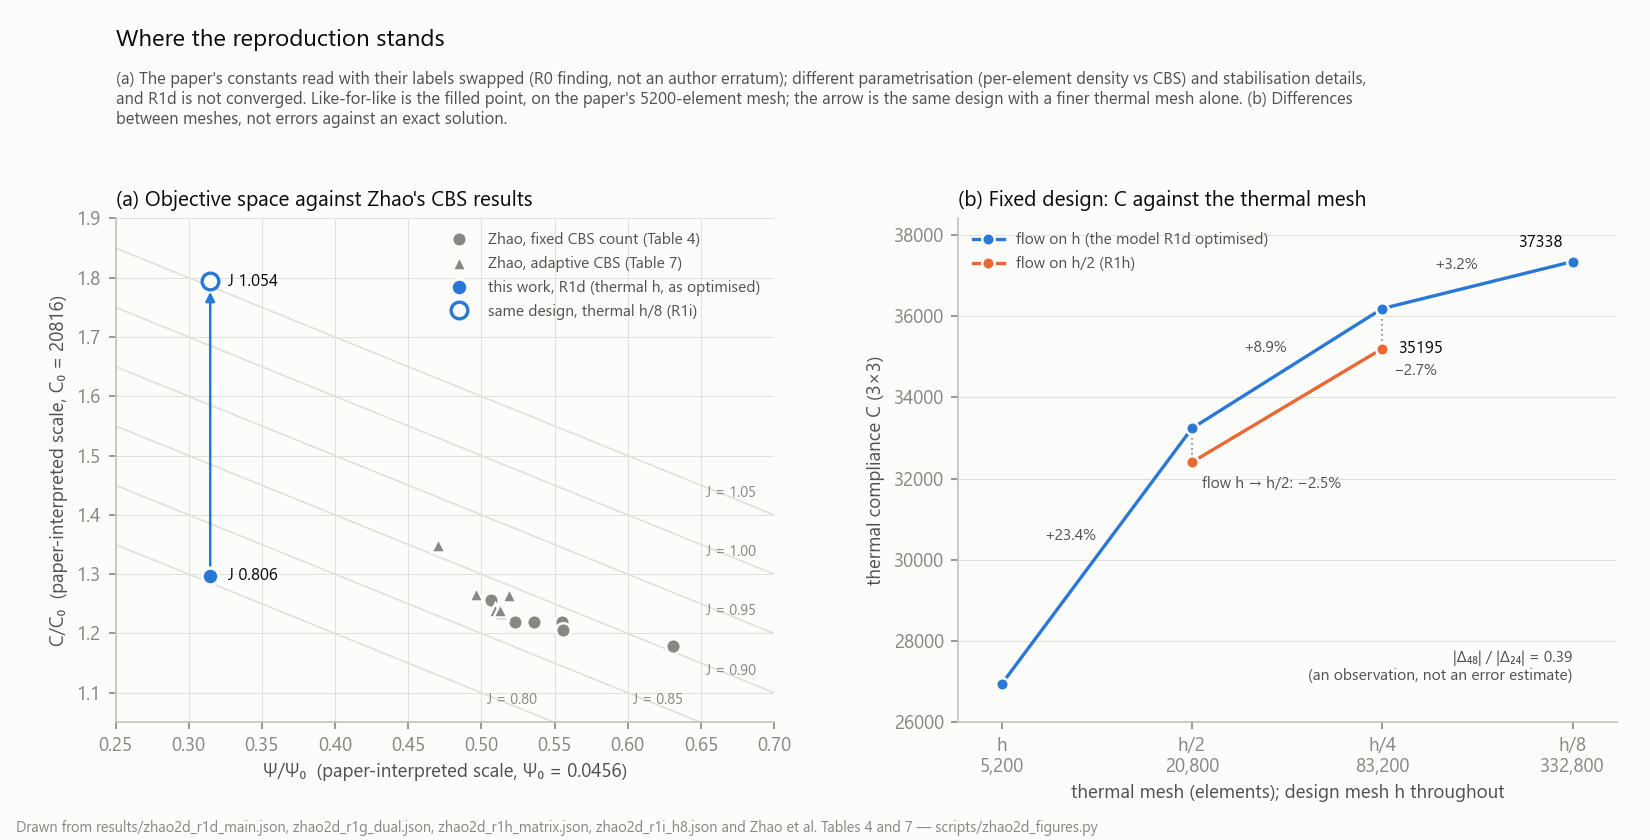
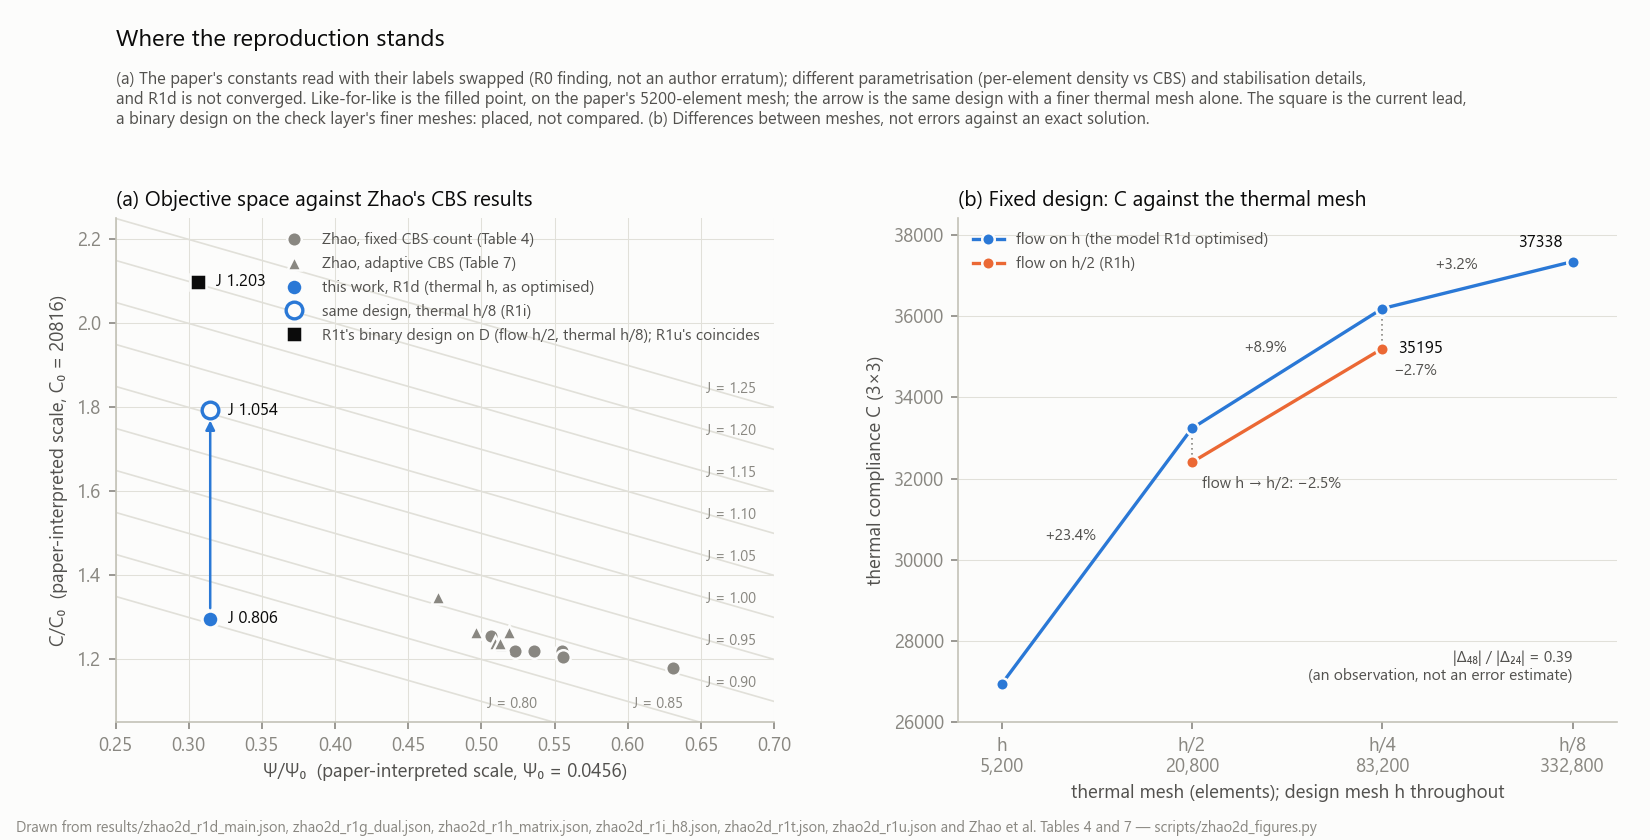
Place the lead 2D designs against the paper, from saved states only
R1t's qualified binary design on the check layer D (and R1u's, its isolated
cell filled), set against Zhao's Tables 4 and 7 and Fig. 11. Nothing solved.

- figure docs/figures/zhao2d_lead_fields.png: R1t's design in the layout of
  Zhao Figs. 8 and 11 (density; |u| on flow h/2; T on thermal h/8) and
  R1u's temperature difference. The meshes, the binary design and both
  states are checked against the records' hashes before drawing.
- zhao2d_status.png: R1t's design on D added to panel (a), on the paper's
  constants with their labels swapped; R1u's falls on the same point.
- docs: "The lead designs placed against the paper": Psi/Psi0 0.307,
  C/C0 2.099, J 1.203 against Tables 4 and 7's 0.471-0.631, 1.179-1.349,
  0.871-0.910, with what this shows and does not show (meshes refined both
  ways, binary vs CBS designs, parametrisation and stabilisation, the
  swapped constants); captions for both figures. README: a short paragraph.
- The other 13 figures regenerate byte for byte.

Checked before commit by a reviewer and a sceptic; their confirmed
findings are fixed.

diff --git a/scripts/zhao2d_figures.py b/scripts/zhao2d_figures.py
@@ -3,7 +3,7 @@
 Nothing is solved or re-optimised here: every field and number is read from
 results/ and drawn, so a figure shows exactly the state the records describe
 -- including that the R1d run is budget-limited and not converged, and that the
-thermal compliance still moves with the thermal mesh. Fourteen figures, written
+thermal compliance still moves with the thermal mesh. Fifteen figures, written
 to docs/figures/:
 
   zhao2d_r1d_fields.png        the R1d design in the layout of Zhao Figs. 8 and
@@ -13,8 +13,9 @@ to docs/figures/:
                                solved so far (h/8, R1i)
   zhao2d_r1d_history.png       the 300-update history on the frozen self scale
   zhao2d_status.png            where the result sits against Zhao Tables 4 and 7
-                               on the paper-interpreted scale, and how C moves
-                               with the thermal mesh on the coarse and fine flow
+                               on the paper-interpreted scale (R1d, and the
+                               current lead on D), and how C moves with the
+                               thermal mesh on the coarse and fine flow
   zhao2d_r1k_warm_start.png    R1k: density and temperature at x_300 and after
                                30 updates on the flow h / thermal h/4 model, the
                                objective's history and the design step
@@ -49,6 +50,9 @@ to docs/figures/:
   zhao2d_r1w.png               R1w: the 18 binary designs along R1v's trajectory,
                                ranked once on D -- where they differ, their J by
                                iterate, and their Psi and C against R1t's design
+  zhao2d_lead_fields.png       the lead design on D (R1t's binary design) in the
+                               layout of Zhao Figs. 8 and 11: density, |u| on
+                               h/2, T on h/8, and R1u's temperature difference
 
     python scripts/zhao2d_figures.py [--results results] [--out docs/figures]
 """
@@ -366,6 +370,8 @@ def status_figure(res: pathlib.Path, out: pathlib.Path) -> pathlib.Path:
     r1g = json.loads((res / "zhao2d_r1g_dual.json").read_text(encoding="utf-8"))
     r1h = json.loads((res / "zhao2d_r1h_matrix.json").read_text(encoding="utf-8"))
     r1i = json.loads((res / "zhao2d_r1i_h8.json").read_text(encoding="utf-8"))
+    lead = json.loads((res / "zhao2d_r1t.json").read_text(encoding="utf-8"))["cells"]["new/check"]
+    filled = json.loads((res / "zhao2d_r1u.json").read_text(encoding="utf-8"))["cells"]["filled/check"]
     term = meta["terminal"]
 
     fig, (left, right) = plt.subplots(1, 2, figsize=(11.0, 5.6))
@@ -373,8 +379,8 @@ def status_figure(res: pathlib.Path, out: pathlib.Path) -> pathlib.Path:
 
     # (a) against the paper, on the paper-interpreted scale
     ax = left
-    xlo, xhi, ylo, yhi = 0.25, 0.70, 1.05, 1.90
-    for j in (0.8, 0.85, 0.9, 0.95, 1.0, 1.05):
+    xlo, xhi, ylo, yhi = 0.25, 0.70, 1.05, 2.25
+    for j in (0.8, 0.85, 0.9, 0.95, 1.0, 1.05, 1.1, 1.15, 1.2, 1.25):
         ax.plot([xlo, xhi], [2 * j - xlo, 2 * j - xhi], color=GRID, lw=0.8, zorder=0)
         # label where the line leaves the box at the lower right, pulled inside it
         xl = min(xhi, 2 * j - ylo) - 0.012
@@ -400,6 +406,14 @@ def status_figure(res: pathlib.Path, out: pathlib.Path) -> pathlib.Path:
     j8 = 0.5 * (psi / PAPER_PSI_0 + c8 / PAPER_C_0)
     ax.text(psi / PAPER_PSI_0 + 0.012, c8 / PAPER_C_0, f"J {j8:.3f}", fontsize=8,
             color=INK, va="center")
+    # the current lead, a binary design on D's finer meshes; R1u's falls on the same point
+    lx, ly = lead["psi"] / PAPER_PSI_0, lead["compliance"] / PAPER_C_0
+    fx, fy = filled["psi"] / PAPER_PSI_0, filled["compliance"] / PAPER_C_0
+    if max(abs(fx - lx), abs(fy - ly)) > 0.005:
+        raise RuntimeError("R1u's point no longer falls on R1t's; give it its own marker")
+    ax.plot([lx], [ly], "s", ms=7.5, color=INK, mec=SURFACE, mew=1.2,
+            label="R1t's binary design on D (flow h/2, thermal h/8); R1u's coincides")
+    ax.text(lx + 0.012, ly, f"J {0.5 * (lx + ly):.3f}", fontsize=8, color=INK, va="center")
     ax.set_xlim(xlo, xhi)
     ax.set_ylim(ylo, yhi)
     ax.set_xlabel("Ψ/Ψ₀  (paper-interpreted scale, Ψ₀ = 0.0456)")
@@ -458,11 +472,13 @@ def status_figure(res: pathlib.Path, out: pathlib.Path) -> pathlib.Path:
              "author erratum); different parametrisation (per-element density vs CBS) and "
              "stabilisation details,\nand R1d is not converged. Like-for-like is the filled "
              "point, on the paper's 5200-element mesh; the arrow is the same design with a "
-             "finer thermal mesh alone. (b) Differences\nbetween meshes, not errors against "
-             "an exact solution.", fontsize=8, color=INK2, ha="left", va="top")
+             "finer thermal mesh alone. The square is the current lead,\na binary design on "
+             "the check layer's finer meshes: placed, not compared. (b) Differences between "
+             "meshes, not errors against an exact solution.", fontsize=8, color=INK2,
+             ha="left", va="top")
     footer(fig, "Drawn from results/zhao2d_r1d_main.json, zhao2d_r1g_dual.json, "
-           "zhao2d_r1h_matrix.json, zhao2d_r1i_h8.json and Zhao et al. Tables 4 and 7 — "
-           "scripts/zhao2d_figures.py")
+           "zhao2d_r1h_matrix.json, zhao2d_r1i_h8.json, zhao2d_r1t.json, zhao2d_r1u.json and "
+           "Zhao et al. Tables 4 and 7 — scripts/zhao2d_figures.py")
     path = out / "zhao2d_status.png"
     fig.savefig(path, dpi=150)
     plt.close(fig)
@@ -1837,6 +1853,100 @@ def r1w_figure(res: pathlib.Path, out: pathlib.Path, g: dict) -> pathlib.Path:
     return path
 
 
+def digest(*arrays) -> str:
+    """sha256 over dtype, shape and bytes: tfopus.zhao2d_flow_study.digest, restated so this
+    script still needs no JAX."""
+    h = hashlib.sha256()
+    for a in arrays:
+        a = np.ascontiguousarray(np.asarray(a))
+        h.update(f"{a.dtype.str}{a.shape}".encode())
+        h.update(a.tobytes())
+    return h.hexdigest()
+
+
+def lead_figure(res: pathlib.Path, out: pathlib.Path, g: dict) -> pathlib.Path:
+    """R1t's binary design on D in the layout of Zhao Figs. 8 and 11, and R1u's difference."""
+    ft = np.load(res / "zhao2d_r1t_fields.npz")
+    fu = np.load(res / "zhao2d_r1u_fields.npz")
+    rt = json.loads((res / "zhao2d_r1t.json").read_text(encoding="utf-8"))
+    ru = json.loads((res / "zhao2d_r1u.json").read_text(encoding="utf-8"))
+    coords_2 = np.load(res / "zhao2d_r1m_fields.npz")["flow_node_coords_h2"]
+    coords_8 = np.load(res / "zhao2d_r1i_fields.npz")["thermal_node_coords_h8"]
+    ct, cu = rt["cells"]["new/check"], ru["cells"]["filled/check"]
+    layer = rt["check_layer"]
+    pv_t, temp_t = ft["new_press_vel_check"], ft["new_temperature_check"]
+    pv_u, temp_u = fu["press_vel"], fu["temperature"]
+    # the saved meshes and states are the ones the records describe, by their own hashes
+    if not (digest(coords_2) == layer["flow_mesh"]["node_coords_sha256"]
+            and digest(coords_8) == layer["thermal_mesh"]["node_coords_sha256"]
+            and all(ru["check_layer"][m]["node_coords_sha256"] == layer[m]["node_coords_sha256"]
+                    for m in ("flow_mesh", "thermal_mesh"))
+            and digest(ft["solid_fraction_binary"]) == rt["export"]["binary_sha256"]
+            and digest(pv_t) == ct["state_sha256"]["press_vel"]
+            and digest(temp_t) == ct["state_sha256"]["temperature"]
+            and digest(pv_u) == cu["state_sha256"]["press_vel"]
+            and digest(temp_u) == cu["state_sha256"]["temperature"]):
+        raise RuntimeError("the saved meshes or states are not the ones R1t's and R1u's records hash")
+    h = g["element_size"]
+    tri_2 = triangulation(coords_2, h / 2, g)
+    tri_8 = triangulation(coords_8, h / 8, g)
+    speed = np.linalg.norm(pv_t.reshape(-1, 3)[:, 1:], axis=1)
+    d_temp = temp_u - temp_t
+    d_max = float(np.abs(d_temp).max())
+
+    fig, axes = plt.subplots(1, 4, figsize=(11.0, 8.0))
+    fig.subplots_adjust(left=0.02, right=0.99, top=0.86, bottom=0.17, wspace=0.10)
+
+    ax = axes[0]
+    field_axes(ax, g, "(a) R1t's qualified binary design")
+    xe, ye, grid = density_grid(ft["solid_fraction_binary"], ft["design_elem_centres"], h, g)
+    m = ax.pcolormesh(xe, ye, np.ma.masked_invalid(grid).T, cmap=DENSITY, vmin=0, vmax=1,
+                      shading="flat")
+    colorbar(fig, m, ax, "γ  (0 solid, 1 fluid)")
+    mark_isolated(ax, grid, ye, h, "isolated by shared\nedges (R1u fills it)")
+    note(ax, f"design mesh h, {int(round((1 - ft['solid_fraction_binary']).sum()))} fluid cells\n"
+             f"with the tabs; v_f (design domain) {ct['fluid_fractions']['v_f_design_domain']:.3f}")
+
+    ax = axes[1]
+    field_axes(ax, g, "(b) Velocity |u|, flow mesh h/2")
+    m = ax.tripcolor(tri_2, speed, cmap=SPEED, vmin=0, vmax=max(0.3, float(speed.max())),
+                     shading="gouraud")
+    colorbar(fig, m, ax, "|u|")
+    note(ax, f"max |u| {speed.max():.3f}\nΨ = {ct['psi']:.6f}")
+
+    ax = axes[2]
+    field_axes(ax, g, "(c) Temperature, thermal mesh h/8")
+    m = ax.tripcolor(tri_8, temp_t, cmap=HEAT, vmin=0, vmax=float(temp_t.max()),
+                     shading="gouraud")
+    colorbar(fig, m, ax, "T")
+    note(ax, f"T_max {ct['T_max']:.2f}; C = {ct['compliance']:.0f}\n"
+             f"D_T/Q {ct['D_T_over_Q']:.2%}")
+
+    ax = axes[3]
+    field_axes(ax, g, "(d) R1u − R1t: temperature")
+    m = ax.tripcolor(tri_8, d_temp, cmap=DIVERGE, vmin=-d_max, vmax=d_max, shading="gouraud")
+    colorbar(fig, m, ax, "ΔT")
+    note(ax, (f"cell filled, nothing else changed\nΔT {d_temp.min():+.3f} to {d_temp.max():+.3f}\n"
+              f"J {cu['J'] / ct['J'] - 1:+.3%} on the common scale").replace("-", "−"))
+
+    fig.suptitle("The lead designs on the check layer D, in the layout of Zhao Figs. 8 and 11",
+                 x=0.02, ha="left", fontsize=11.5, color=INK, y=0.975)
+    fig.text(0.02, 0.925,
+             "R1t's qualified binary design, the numerical first among the evaluated designs "
+             "at w = 0.5 on D (flow h/2, thermal h/8), and R1u's, the same design with its "
+             "isolated cell filled.\nZhao's Fig. 11 scales |u| 0–0.3 and T 0–12 on its "
+             "5200-element mesh. D has 4 and 64 times its elements (flow, thermal); refining "
+             "the thermal mesh raised C, the flow lowered it (R1i; R1h, R1m).",
+             fontsize=8.5, color=INK2, ha="left", va="top")
+    footer(fig, "Drawn from results/zhao2d_r1t_fields.npz, zhao2d_r1u_fields.npz and their records, "
+           "nodes from zhao2d_r1m/r1i_fields.npz; design, states and nodes checked by hash — "
+           "scripts/zhao2d_figures.py; nothing re-solved.")
+    path = out / "zhao2d_lead_fields.png"
+    fig.savefig(path, dpi=150)
+    plt.close(fig)
+    return path
+
+
 def main() -> None:
     ap = argparse.ArgumentParser(description=__doc__)
     ap.add_argument("--results", type=pathlib.Path, default=REPO / "results")
@@ -1856,7 +1966,7 @@ def main() -> None:
              "zhao2d_r1o_fields.npz", "zhao2d_r1p_bridge.json", "zhao2d_r1r.json",
              "zhao2d_r1r_fields.npz", "zhao2d_r1t.json", "zhao2d_r1t_fields.npz",
              "zhao2d_r1v.json", "zhao2d_r1v_fields.npz", "zhao2d_r1w.json",
-             "zhao2d_r1w_fields.npz"]
+             "zhao2d_r1w_fields.npz", "zhao2d_r1u.json", "zhao2d_r1u_fields.npz"]
     for n in names:
         print(f"read results/{n}  sha256 {sha(res / n)}")
     sources = [f"results/{n}" for n in names]
@@ -1866,7 +1976,8 @@ def main() -> None:
                  r1m_figure(res, args.out, g), r1n_figure(res, args.out, g),
                  r1o_figure(res, args.out, g), r1p_figure(res, args.out),
                  r1r_figure(res, args.out, g), r1t_figure(res, args.out, g),
-                 r1v_figure(res, args.out, g), r1w_figure(res, args.out, g)):
+                 r1v_figure(res, args.out, g), r1w_figure(res, args.out, g),
+                 lead_figure(res, args.out, g)):
         print(f"wrote {path.relative_to(REPO) if path.is_relative_to(REPO) else path}")
 
 

diff --git a/docs/zhao_reproduction.md b/docs/zhao_reproduction.md
@@ -65,7 +65,11 @@ scale. Like-for-like is the filled point, on the paper's 5200-element mesh
 (R1d's own 2×2 model). The arrow is the same design with only the thermal mesh
 refined to h/8 (3×3), which moves C/C₀ from 1.30 to 1.79. The parametrisation,
 the stabilisation details and the convergence state all differ from the
-paper's, so this places the result; it does not rank the two methods. (b) C
+paper's, so this places the result; it does not rank the two methods. The
+square, added on 1 October, is the current lead: R1t's binary design on the
+check layer D (flow h/2, thermal h/8), J 1.203; R1u's falls on the same point.
+It sits on finer meshes than the paper's and is a binary design, so it too is
+placed, not compared (see "The lead designs placed against the paper"). (b) C
 against the thermal mesh at the fixed design, on the coarse and the fine flow
 (R1g, R1h, R1i).
 
@@ -197,6 +201,22 @@ R1w. In the density panel, dark is fluid and light is solid.
   −2.28% and −2.27%, C +1.81% and +1.79%), and R1v's open marker is drawn
   over 38's; R1t's and R1u's nearly coincide too. R1o's, R1n's and the
   pilot's are off the panel, at lower Ψ and higher C.
+
+![The lead design on D, in the layout of Zhao Figs. 8 and 11](figures/zhao2d_lead_fields.png)
+
+The lead design on the check layer D, from saved states. In the density
+panel, dark is fluid and light is solid.
+
+- (a) R1t's qualified binary design. The ring marks its isolated cell 3750,
+  which R1u fills.
+- (b) |u| on the flow mesh h/2, and (c) T on the thermal mesh h/8.
+- (d) R1u's temperature minus R1t's, both on h/8. Filling the one cell moves
+  T by −0.045 to +0.327; the largest rise is at (3.49, 4.96) mm, just off the
+  filled cell's corner.
+
+Zhao's Fig. 11 colours |u| on 0–0.3 and T on 0–12 on its 5200-element mesh.
+Here they reach 0.302 and 19.30, on meshes with 4 and 64 times its elements.
+See "The lead designs placed against the paper".
 
 ## R1d: the 300-update run
 
@@ -5562,6 +5582,50 @@ columns are against R1t's design; D_T/Q is each design's own.
   result at w = 0.5 on D and stop optimising at β = 32. The alternatives the
   contract names are to change the generating objective or to optimise the
   binary geometry explicitly. Either would be a new contract.
+
+## The lead designs placed against the paper
+
+Asked for on 1 October: the lead designs set against the paper's numbers
+and figures, from saved states only. Nothing was solved. The scale is the
+paper's constants read with their labels swapped (Ψ₀ = 0.0456, C₀ = 20816;
+the R0 finding), with J = (Ψ/Ψ₀ + C/C₀)/2. Figure: `docs/figures/zhao2d_lead_fields.png`,
+and the square in `docs/figures/zhao2d_status.png`.
+
+| design | meshes (flow, thermal) | Ψ/Ψ₀ | C/C₀ | J | max \|u\| | T_max |
+|---|---|---|---|---|---|---|
+| Zhao, Tables 4 and 7 (cases 1–12) | 5200 elements | 0.471–0.631 | 1.179–1.349 | 0.871–0.910 | | |
+| R1d's continuous design | h, h: the paper's mesh | 0.315 | 1.297 | 0.806 | 0.310 | 13.83 |
+| the same, thermal h/8 (R1i) | h, h/8 | 0.315 | 1.794 | 1.054 | | 16.06 |
+| R1t's qualified binary design | h/2, h/8: D | 0.307 | 2.099 | 1.203 | 0.302 | 19.30 |
+| R1u's (R1t's, cell 3750 filled) | h/2, h/8: D | 0.307 | 2.100 | 1.203 | 0.302 | 19.30 |
+
+- **What it shows.** On this scale R1t's and R1u's designs on D have a lower
+  Ψ/Ψ₀ than every case in Tables 4 and 7, a higher C/C₀ than every case, and
+  a higher J. R1d's continuous design on the paper's own mesh also has a
+  lower Ψ/Ψ₀ (0.315), with its C/C₀ (1.297) inside the paper's range.
+- **What it does not show:** which method does better, or why the values
+  differ. Several things differ at once, and their shares are not separated:
+  - the meshes. D's thermal mesh has 64 times the paper's elements: on
+    R1d's design, going from its own 2×2 model to thermal h/8 at 3×3 raised
+    C/C₀ from 1.30 to 1.79 (R1d, R1i). Its flow mesh has 4 times the
+    elements: refining the flow h → h/2 lowered C by 2.5% and 2.7% on R1d's
+    design (R1h, thermal h/2 and h/4) and by 8.0% and 8.4% on two binary
+    designs at thermal h/8 (R1m). R1t's design was not solved on the paper's
+    mesh, so the net effect of D's two refinements on its C is not measured;
+  - binary designs here, the paper's own CBS designs there;
+  - the parametrisation, the stabilisation (R1's forms are not a literal
+    transcription of eqs. 13–18; see "R1: the frozen configuration"), and an
+    optimisation that is not converged;
+  - the constants, which are the paper's with their labels swapped by the R0
+    finding, not an author's erratum.
+- **The fields.** Zhao's Fig. 11 colours |u| on 0–0.3 and T on 0–12. R1t's
+  design on D reaches 0.302 and 19.30. A colour scale is not a reported
+  maximum, so this is a range check only.
+- **On the paper's mesh.** Evaluating R1t's binary design on the
+  5200-element model (flow and thermal h) would take one flow and one thermal
+  solve. It would remove the mesh difference only; the other three would
+  remain, so it would still place the design, not compare the methods. It was
+  not run; no new solve was asked for.
 
 ## R0 headline: the reported Ψ₀ and C₀ are transposed
 

diff --git a/README.md b/README.md
@@ -390,6 +390,18 @@ and none failed.
   model, which generated and ranked the designs.
 - 33 minutes by the script's timer.
 
+**The lead design, placed against the paper (no new solves).** On the
+paper's scale, with its two constants swapped as found above (Ψ₀ = 0.0456,
+C₀ = 20816; not an author erratum), R1t's binary design on the check model
+has Ψ/Ψ₀ 0.31 and C/C₀ 2.10 (J 1.20), against Tables 4 and 7's 0.47–0.63 and
+1.18–1.35 (J 0.87–0.91). It sits on finer meshes than the paper's and it is a
+binary design. On R1d's design, refining the thermal mesh to h/8 raised C/C₀
+from 1.30 to 1.79, while the flow refinement, also part of the check model,
+lowered C by 8.0–8.4% on the two binary designs R1m checked. So this places
+the design; it does not compare the two methods. Its
+density, velocity and temperature, in the layout of the paper's Figs. 8 and
+11, are in `docs/figures/zhao2d_lead_fields.png`.
+
 Next, for the review: whether to take R1t's design as the density method's
 result at w = 0.5 on the check model and stop optimising at β = 32, or to
 change what is optimised, either the generating objective or the binary
